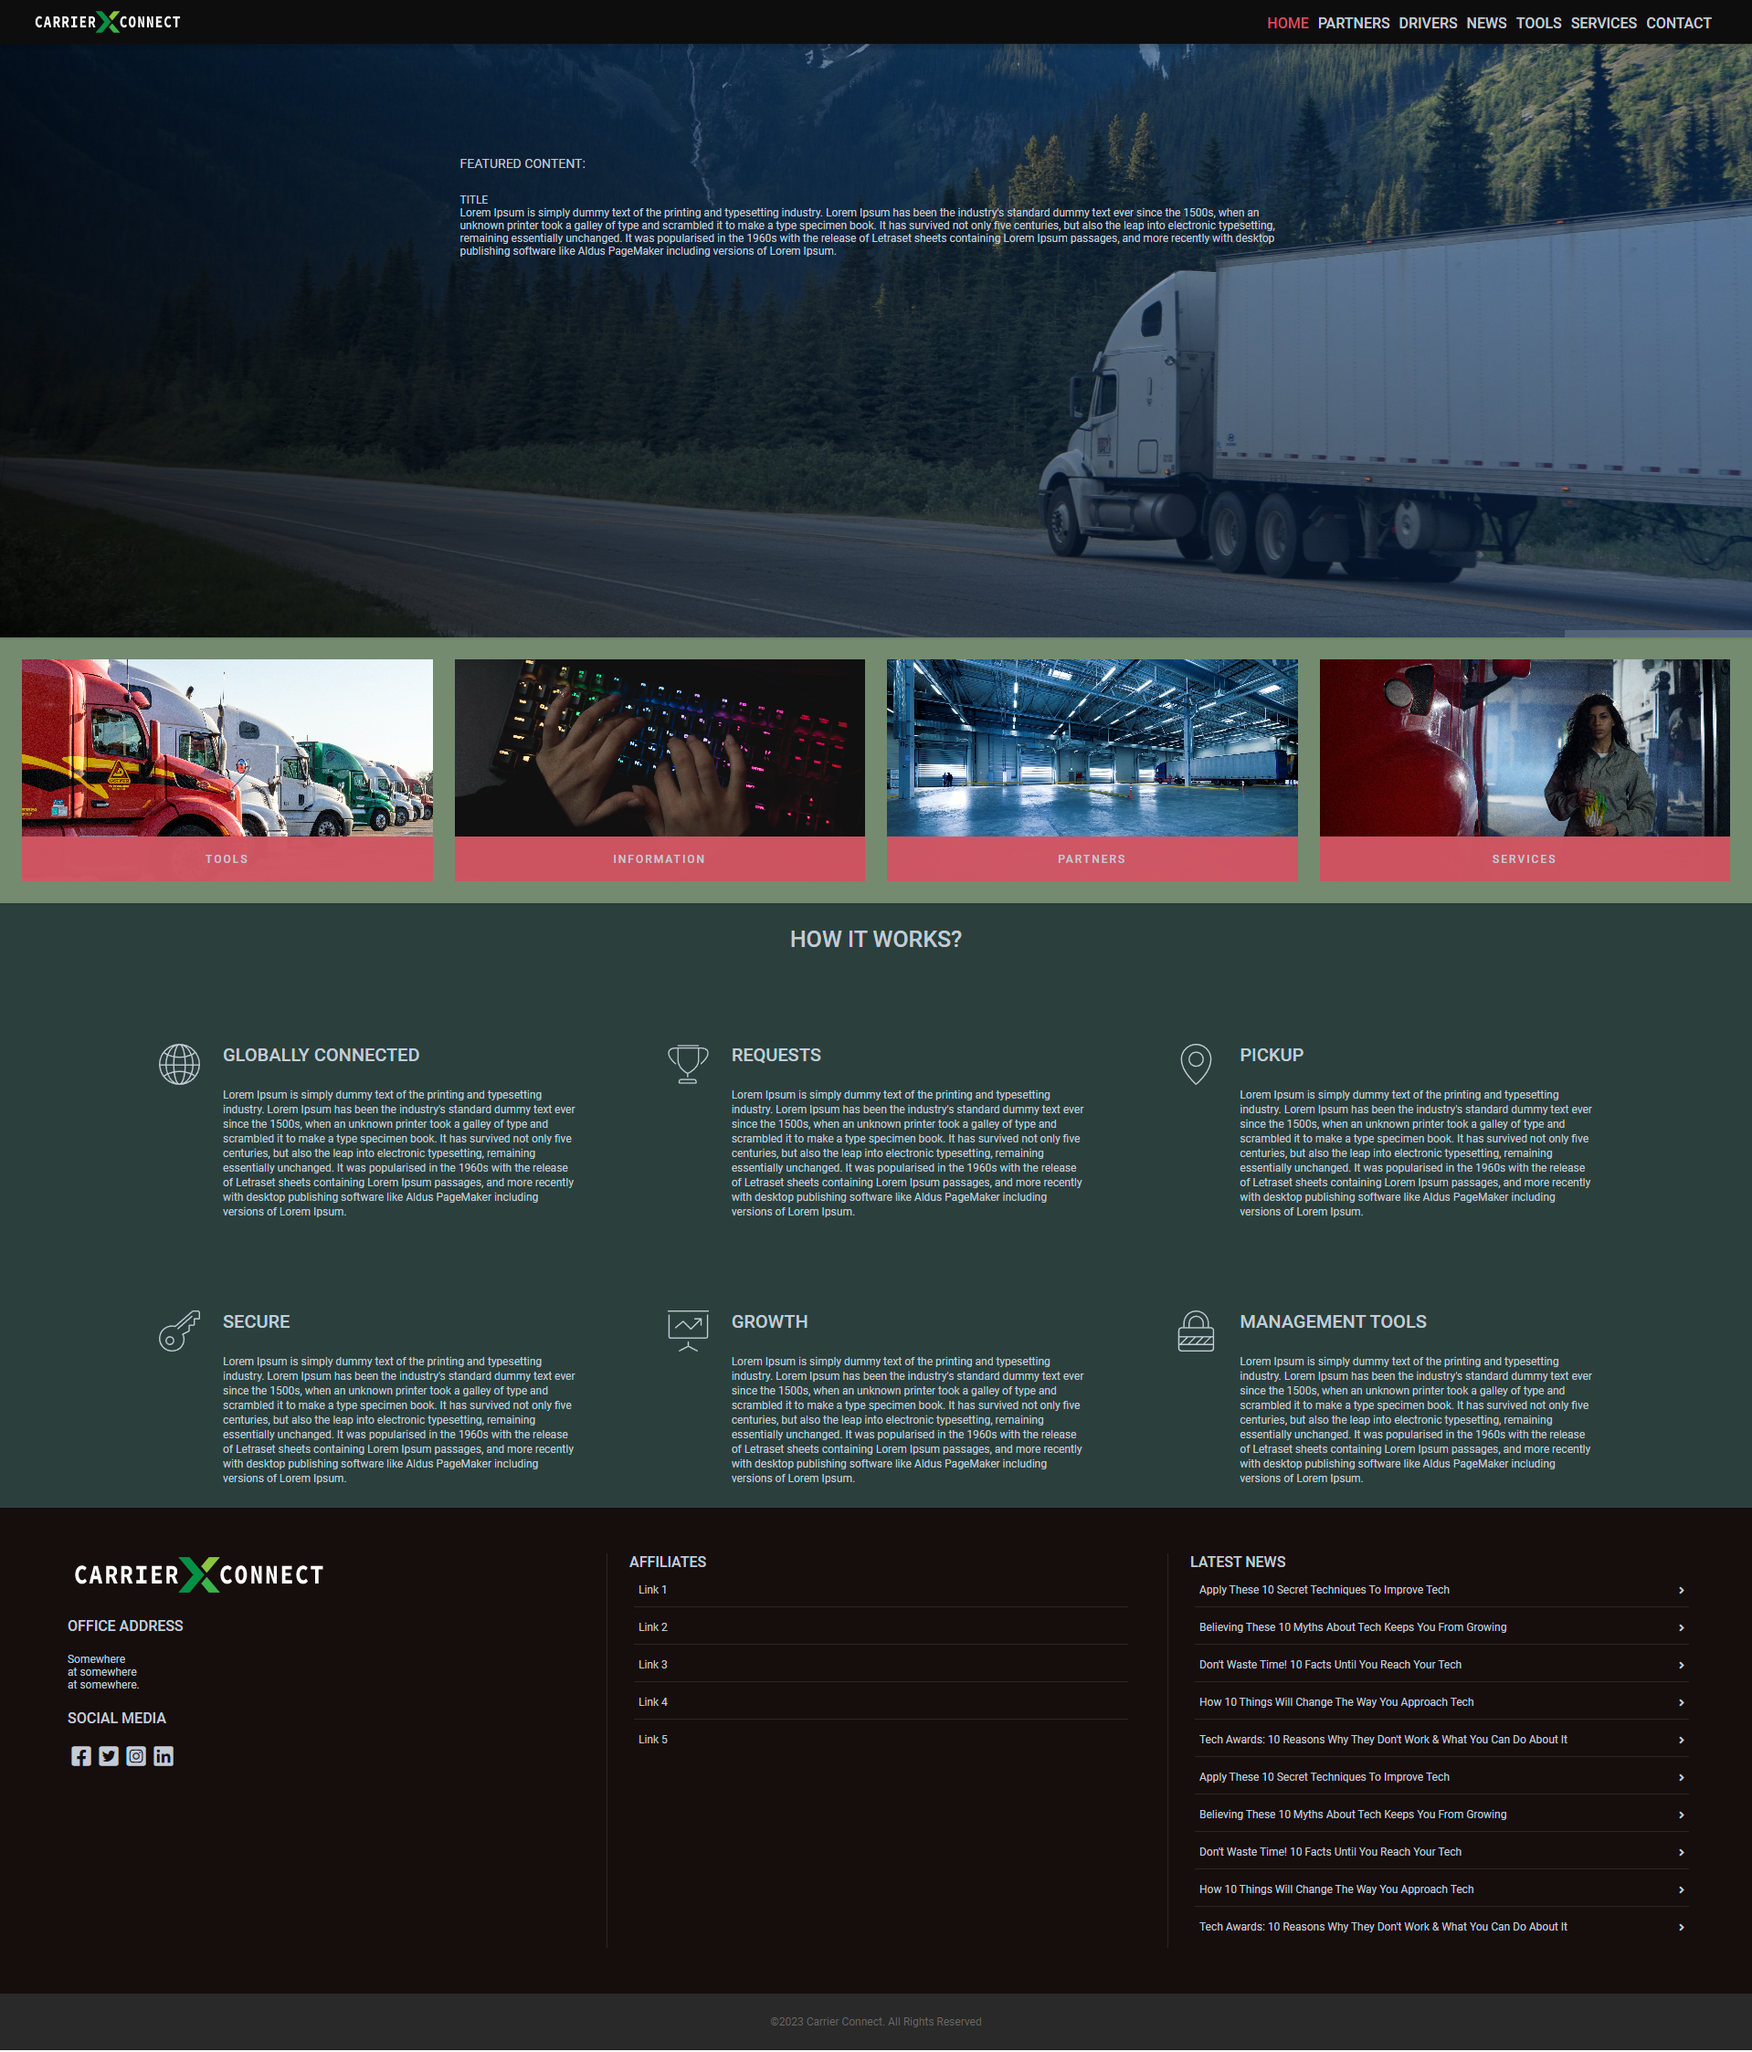
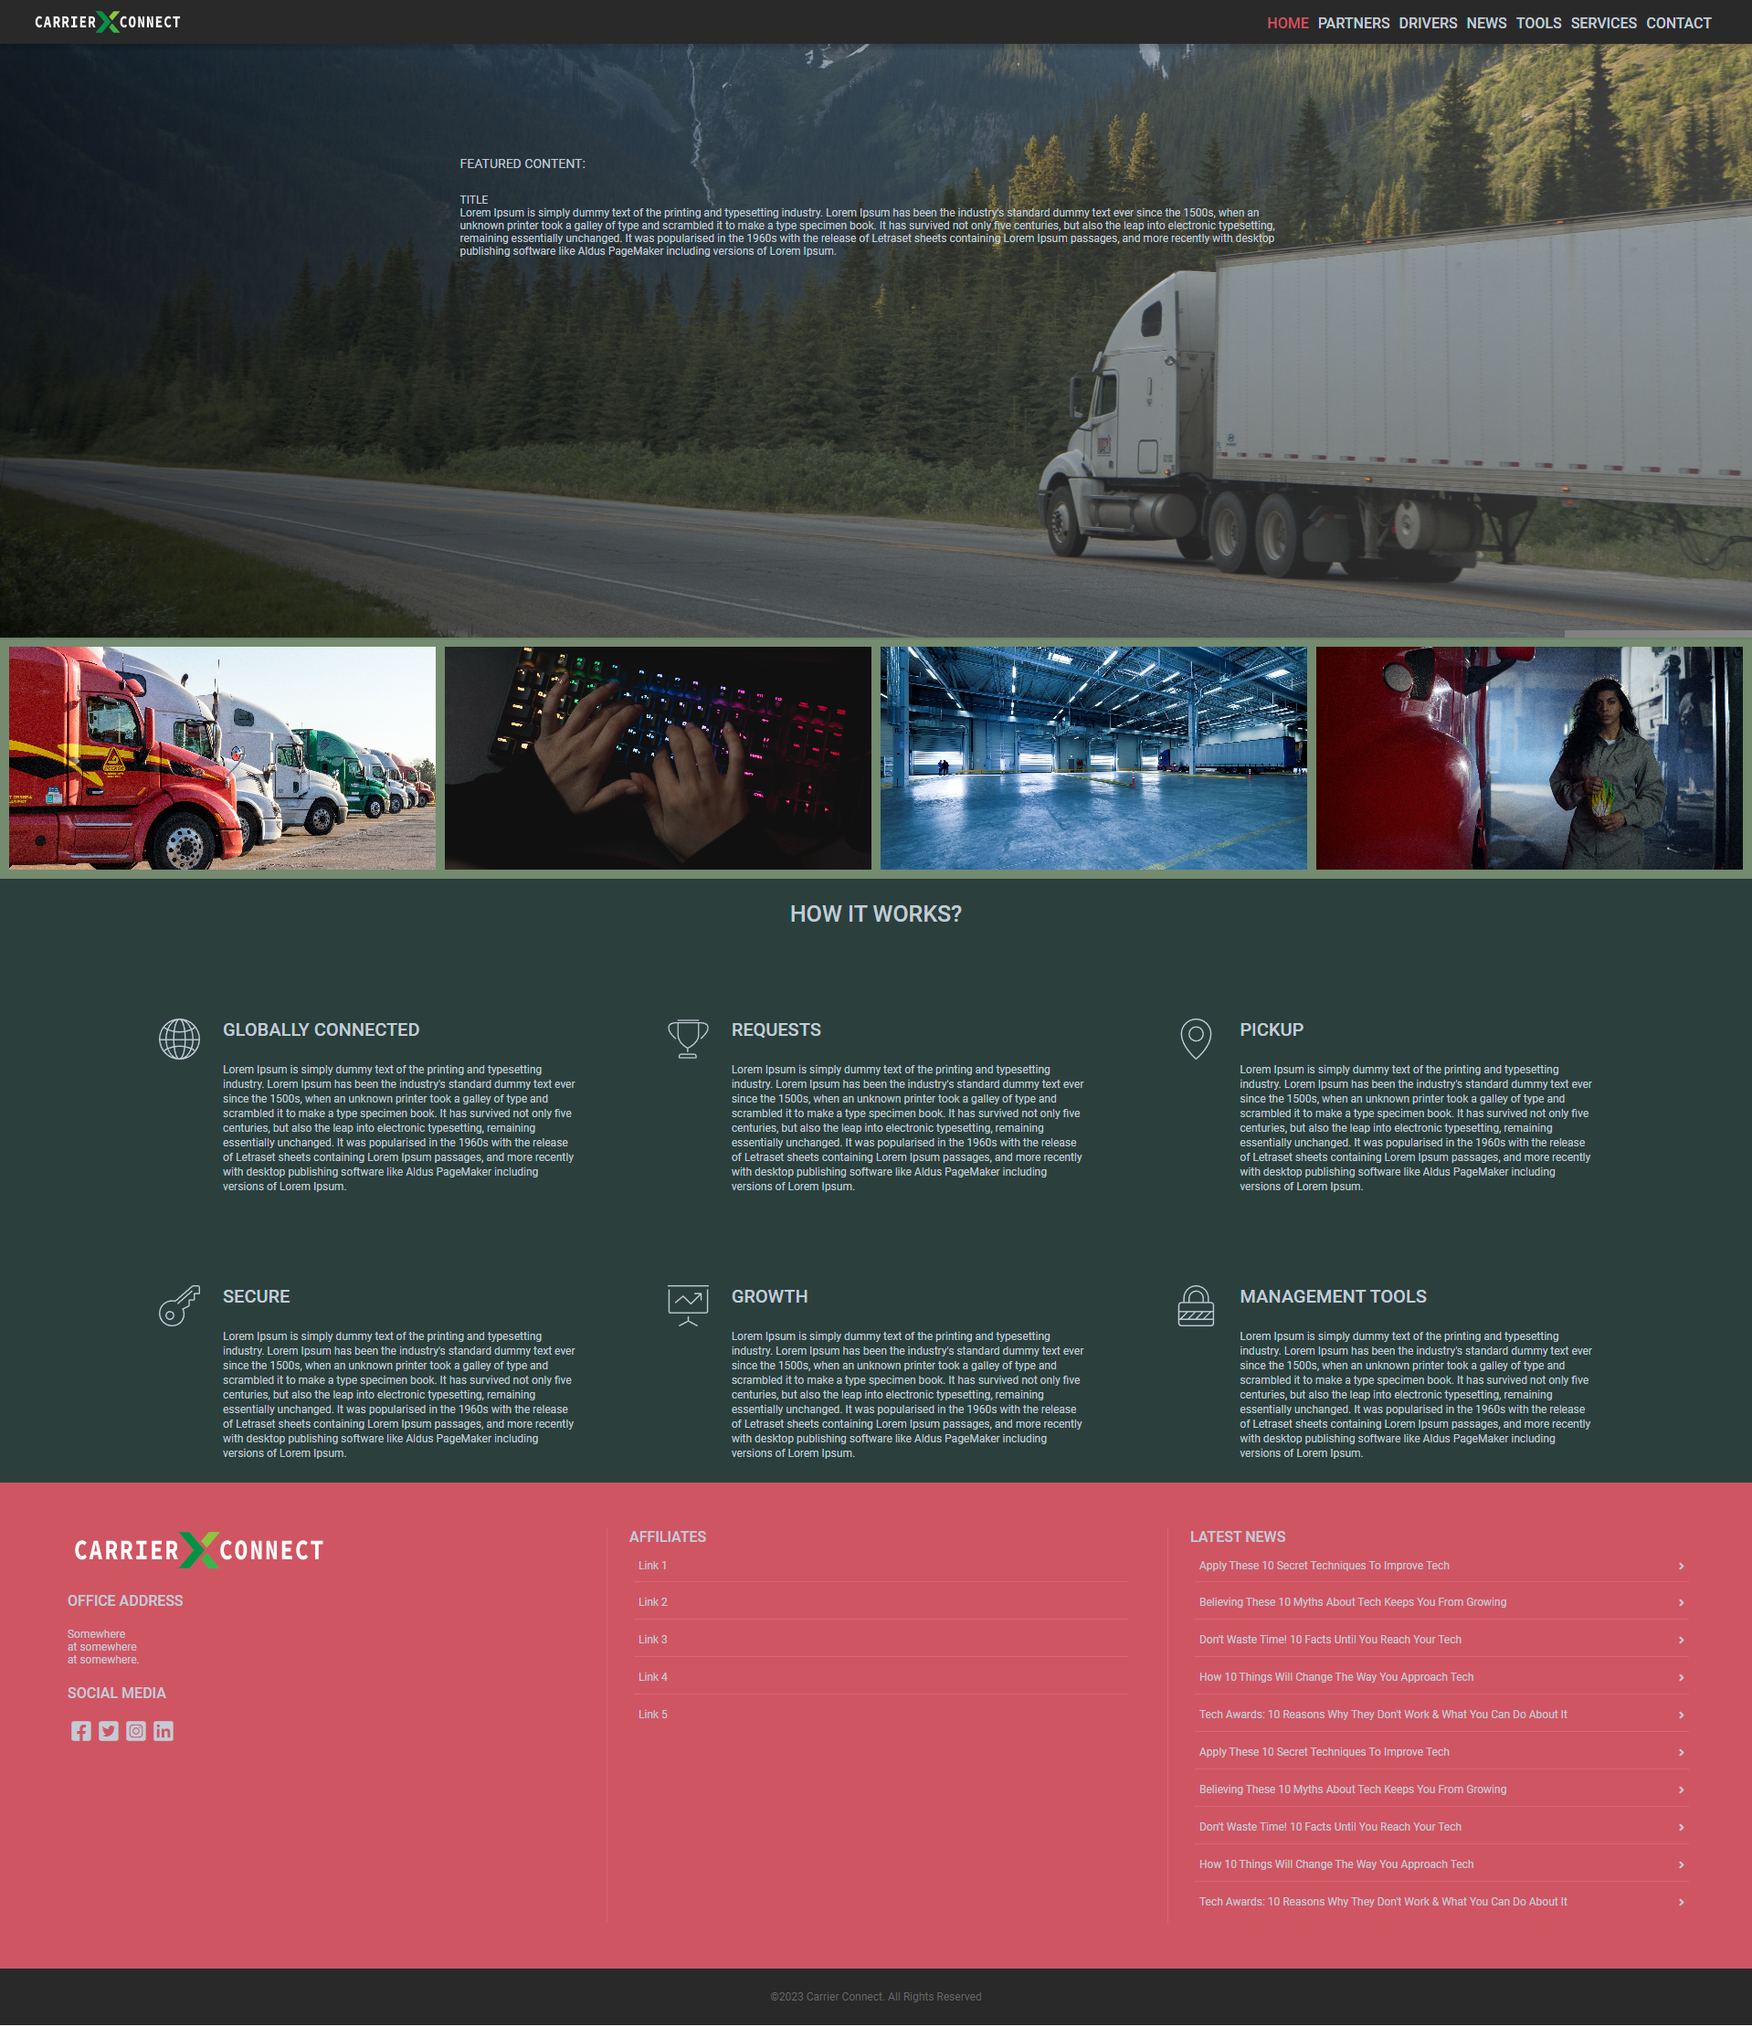
More theming

diff --git a/client/src/app/core/home/home.component.scss b/client/src/app/core/home/home.component.scss
@@ -11,7 +11,7 @@ $background: #000;
 
 :host {
   display: grid;
-  grid-template-rows: 65rem repeat(3, min-content);
+  grid-template-rows: 65rem repeat(2, min-content);
   grid-template-columns: [full-start] 1fr [center-start] repeat(8, [col-start] minmax(min-content, 192rem) [col-end]) [center-end] 1fr [full-end];
   background-color: $primary-background;
 }
@@ -20,8 +20,8 @@ $background: #000;
   grid-column: full-start / full-end;
   // truck-2677373.jpg
   background: linear-gradient(45deg,
-  rgba(0, 0, 0, 0.75),
-  rgba(0, 128, 255, 0.25)), url('/assets/images/truck-2677373.jpg') bottom right no-repeat;
+  rgba(0, 0, 0, 0.5),
+  rgba(255, 255, 255, 0.25)), url('/assets/images/truck-2677373.jpg') bottom right no-repeat;
   background-size: cover;
   // background: #93BFCF;
   box-shadow: 0px 2px 0px 0px #00000010;
@@ -49,14 +49,14 @@ $background: #000;
 }
 
 .tools {
-  padding: 2.4rem;
+  padding: 1rem;
   grid-column: center-start / center-end;
   background-color: #748b6f;
   box-shadow: 0px 2px 0px 0px #00000010;
 
   display: grid;
-  grid-template-columns: repeat(4, minmax(min-content, 45rem));
-  grid-gap: 2.4rem;
+  grid-template-columns: repeat(4, minmax(min-content, 1fr));
+  grid-gap: 1rem;
 }
 
 
@@ -169,36 +169,18 @@ $background: #000;
 .services {
   grid-column: center-start / center-end;
   padding: 2.4rem;
-  margin: 0 15rem;
-  box-shadow: 0px 2px 0px 0px #00000010;
+  margin: 0 10rem;
+  // box-shadow: 0px 4px 0px 0px #00000050;
 
   display: grid;
   grid-template-columns: repeat(3, 1fr);
   grid-gap: 10rem;
 
   & p {
-      line-height: 1.6rem;
+      line-height: 2rem;
   }
 }
 
-.broll {
-  grid-column: full-start / full-end;
-  background-color: #161515;
-  padding: 2.4rem;
-  //margin: 0 10rem;
-  box-shadow: 0px 2px 0px 0px #00000010;
-
-  & .heading-1 {
-      margin-bottom: 2.4rem;
-  }
-
-  & img {
-      object-fit: cover;
-      width: 100%;
-      height: 60rem;
-      //padding: 2.4rem;
-  }
-}
 
 .whatwedo {
   grid-column: 1 / span 3;

diff --git a/client/src/app/news/news.component.scss b/client/src/app/news/news.component.scss
@@ -11,7 +11,7 @@ $background: #000;
 
 :host {
   display: grid;
-  grid-template-rows: 45rem repeat(4, min-content);
+  grid-template-rows: 30rem repeat(4, min-content);
   grid-template-columns: [full-start] 1fr [center-start] repeat(8, [col-start] minmax(min-content, 192rem) [col-end]) [center-end] 1fr [full-end];
   background-color: $primary-background;
 }
@@ -21,7 +21,7 @@ $background: #000;
   // truck-2677373.jpg
   background: linear-gradient(45deg,
   rgba(0, 0, 0, 0.75),
-  rgba(0, 128, 255, 0.25)), url('/assets/images/truck-2677373.jpg') bottom right no-repeat;
+  rgba(255, 255, 255, 0.25)), url('/assets/images/news.jpg') bottom right no-repeat;
   background-size: cover;
   // background: #93BFCF;
   box-shadow: 0px 2px 0px 0px #00000010;
@@ -37,15 +37,15 @@ $background: #000;
   &--featured {
       display: flex;
       justify-content: center;
-      // align-items: center;
+      align-items: center;
       flex-direction: column;
-      height: 45rem;
+      height: 30rem;
 
       & h3, p, span {
           padding: 0 2.4rem 2.4rem 2.4rem;
           font-weight: 400;
           text-shadow: 0px 5px 4px #00000010;
-          font-size: 100px;
+          font-size: 50px;
       }
     }
 }
@@ -55,12 +55,12 @@ $background: #000;
   display: grid;
   grid-template-columns: min-content 1fr;
   grid-row-gap: 2.4rem;
-  grid-column-gap: 2.5rem;
+  grid-column-gap: 2.4rem;
 }
 
 .blog {
   grid-column: center-start / center-end;
-  padding: 2.4rem;
+  padding: 1rem;
   //margin: 0 15rem;
   box-shadow: 0px 2px 4px 0px #00000010;
 
@@ -103,6 +103,7 @@ $background: #000;
       padding: 2.4rem;
       background-color: #748b6f;
       box-shadow: 0px 2px 0px 0px #00000010;
+      border-radius: 5px;
   }
 }
 

diff --git a/client/src/app/core/header/header.component.scss b/client/src/app/core/header/header.component.scss
@@ -13,7 +13,7 @@ $background: #000;
   top: 0;
   z-index: 20;
   grid-column: full-start / full-end;
-  background: #0e0d0d 0% 0% no-repeat padding-box;
+  background: #292929 0% 0% no-repeat padding-box;
   box-shadow: 0px 5px 4px #00000029;
   display: grid;
   grid-template-columns: 1fr 1fr;
@@ -65,7 +65,7 @@ $background: #000;
   grid-column: full-start / full-end;
   // truck-2677373.jpg
   background: linear-gradient(45deg,
-  rgba(0, 0, 0, 0.75),
+  rgba(0, 0, 0, 0.5),
   rgba(0, 128, 255, 0.25)), url('/assets/images/truck-2677373.jpg') bottom right no-repeat;
   background-size: cover;
   // background: #93BFCF;

diff --git a/client/src/app/core/footer/footer.component.scss b/client/src/app/core/footer/footer.component.scss
@@ -1,3 +1,11 @@
+/*
+Background: #2A403D
+Active Text: #c3cbd6
+Text: #D05663
+Blocks: #748b6f
+*/
+
+
 $primary-background: #6096B4;
 $blocks: #161515;
 $background: #000;
@@ -12,7 +20,7 @@ $background: #000;
 .footer {
   //padding: 2.4rem;
   grid-column: full-start / full-end;
-  background: #160d0d;
+  background: #D05663;
   padding: 5rem;
 
   display: grid;

diff --git a/client/src/app/core/home/home.component.html b/client/src/app/core/home/home.component.html
@@ -48,7 +48,7 @@
 </section>
 <section class="services">
   <div class="whatwedo">
-      <h1 class="heading-1">How it works?</h1>
+      <h1 class="heading-1">How does Carrier Connect Work?</h1>
   </div>
   <div class="feature">
       <svg class="icon">

diff --git a/client/src/app/news/articles/articles.component.scss b/client/src/app/news/articles/articles.component.scss
@@ -87,7 +87,7 @@ $background: #000;
 
 .sub-navigation {
   grid-column: col-start 7 / full-end;
-  background: #161515;
+  background: #292929;
   padding: 2.4rem;
 
   box-shadow: 0px 2px 0px 0px #00000029;

diff --git a/client/src/app/news/news.component.html b/client/src/app/news/news.component.html
@@ -1,6 +1,6 @@
 <header class="header">
   <div class="header--featured">
-      <h3>Carrier News</h3>
+      <h3>Carrier Connect News</h3>
   </div>
 </header>
 <section class="blog">

diff --git a/client/src/styles.scss b/client/src/styles.scss
@@ -24,7 +24,7 @@ a {
 }
 
 a:hover {
-  color: #EEE9DA;
+  color: #D05663;
 }
 
 a.active {
